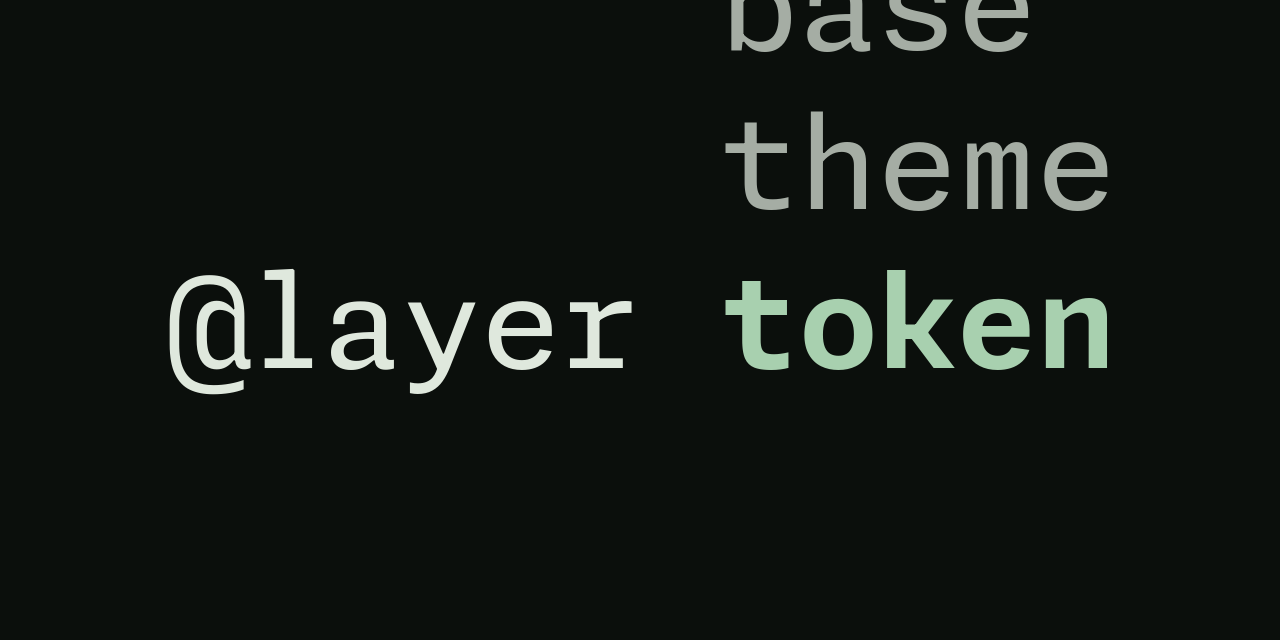
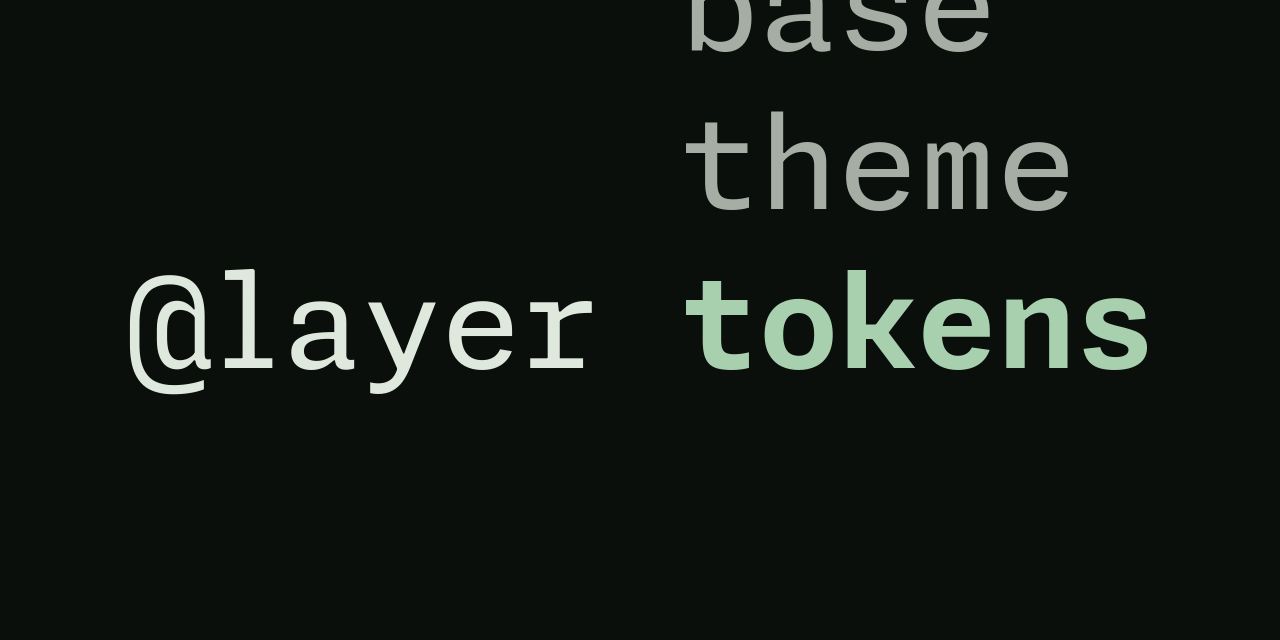
token is plural

diff --git a/og.html b/og.html
@@ -18,7 +18,7 @@
     height: 1lh;
     color: #a5ada4;
   }
-  .token {
+  .tokens {
     color: #a8d0af;
     font-weight: bold;
   }
@@ -28,6 +28,6 @@
   <div class="layers">
     <span>base</span>
     <span>theme</span>
-    <span class="token">token</span>
+    <span class="tokens">tokens</span>
   </div>
 </div>

diff --git a/README.md b/README.md
@@ -1,8 +1,8 @@
 # vite-plugin-token-shaker
 
-CSS variables can't be easily tree shaken by default, even when they represent things like tokens. This plugin makes it so if you declare them in a `token` layer:
+CSS variables can't be easily tree shaken by default, even when they represent things like tokens. This plugin makes it so if you declare them in a `tokens` layer:
 ```css
-@layer token {
+@layer tokens {
   :root {
     --color-primary: #ff0000;
     --spacing-small: 8px;
